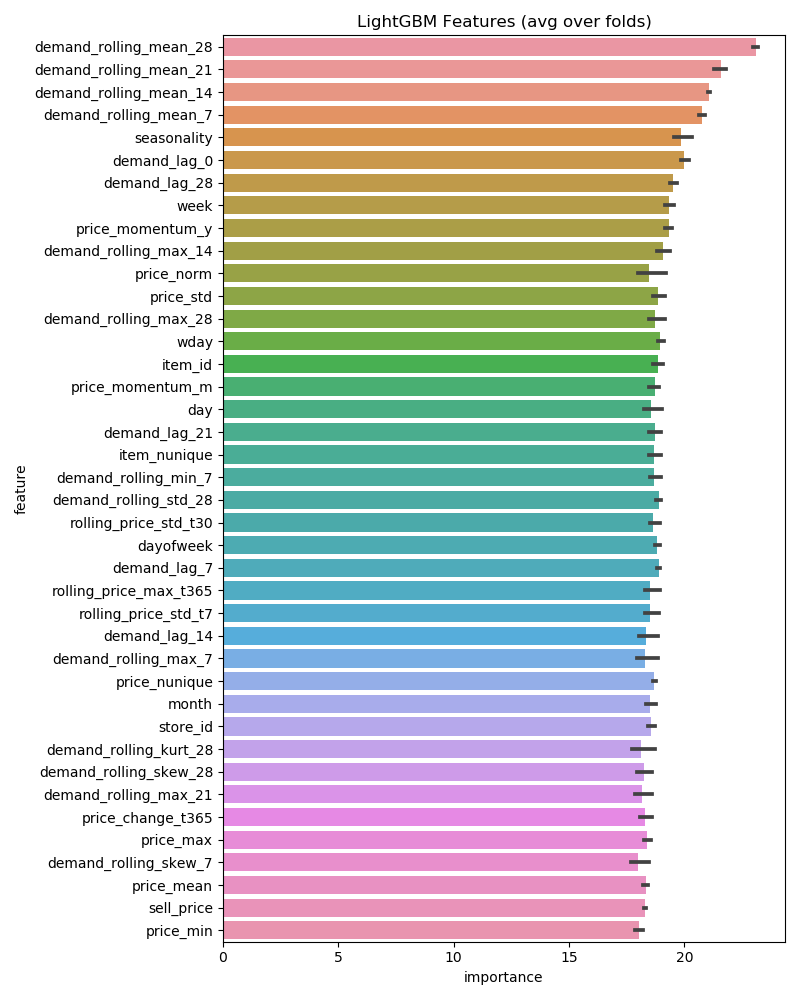
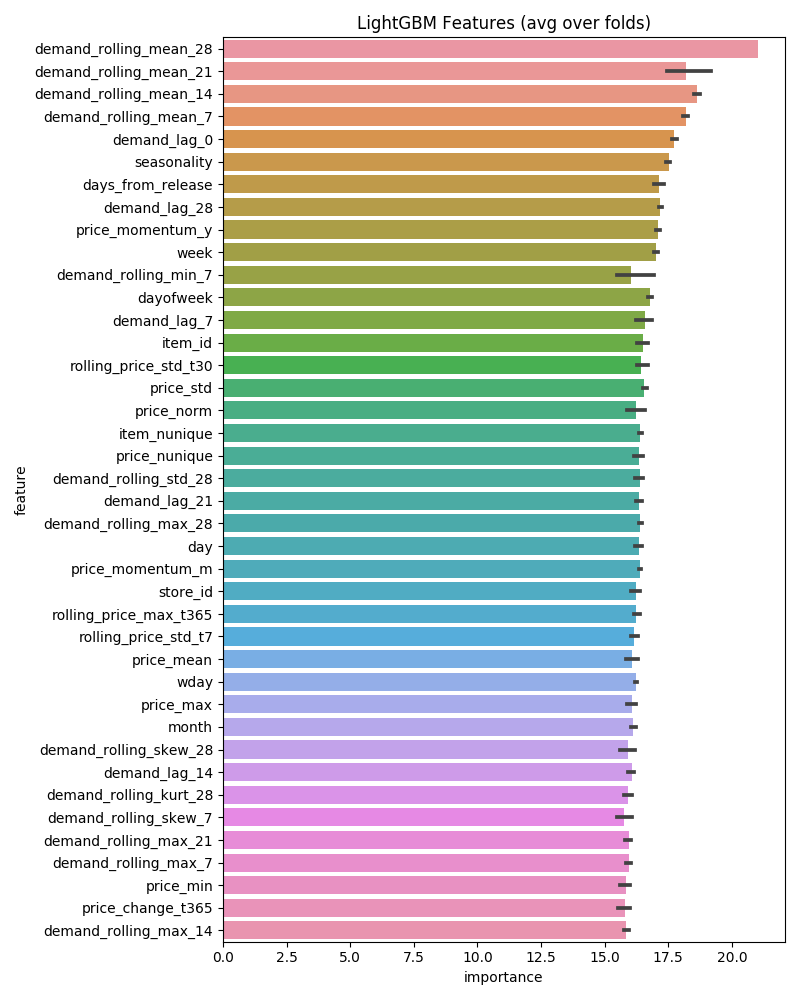
LB#52 model202 cv: 1.901798 add days from release

diff --git a/src/201_train_lgbm_cv.py b/src/201_train_lgbm_cv.py
@@ -81,12 +81,11 @@ def kfold_lightgbm(train_df, test_df, num_folds, debug=False):
                                free_raw_data=False)
 
         params ={
-#                'device' : 'gpu',
-#                'gpu_use_dp':True,
+                'device' : 'gpu',
+                'gpu_use_dp':True,
                 'task': 'train',
                 'boosting': 'gbdt',
-#                'objective': 'poisson',
-                'learning_rate': 0.01,
+                'learning_rate': 0.1,
                 'bagging_fraction': 0.85,
                 'bagging_freq': 1,
                 'colsample_bytree': 0.85,

diff --git a/src/202_train_lgbm_all_data.py b/src/202_train_lgbm_all_data.py
@@ -64,12 +64,11 @@ def train_lightgbm(train_df,test_df,debug=False):
 
     # params optimized by optuna
     params ={
-#           'device' : 'gpu',
-#           'gpu_use_dp':True,
+           'device' : 'gpu',
+           'gpu_use_dp':True,
             'task': 'train',
             'boosting': 'gbdt',
-#           'objective': 'poisson',
-            'learning_rate': 0.01,
+            'learning_rate': 0.1,
             'bagging_fraction': 0.85,
             'bagging_freq': 1,
             'colsample_bytree': 0.85,

diff --git a/src/003_sell_prices.py b/src/003_sell_prices.py
@@ -25,6 +25,9 @@ def main(is_eval=False):
     # merge release week
     df = df.merge(release_df, on=['store_id','item_id'],how='left')
 
+    # days from release
+    df['days_from_release'] = df['wm_yr_wk'] - df['release']
+
     # basic aggregations
     df['price_max'] = df.groupby(['store_id','item_id'])['sell_price'].transform('max')
     df['price_min'] = df.groupby(['store_id','item_id'])['sell_price'].transform('min')
